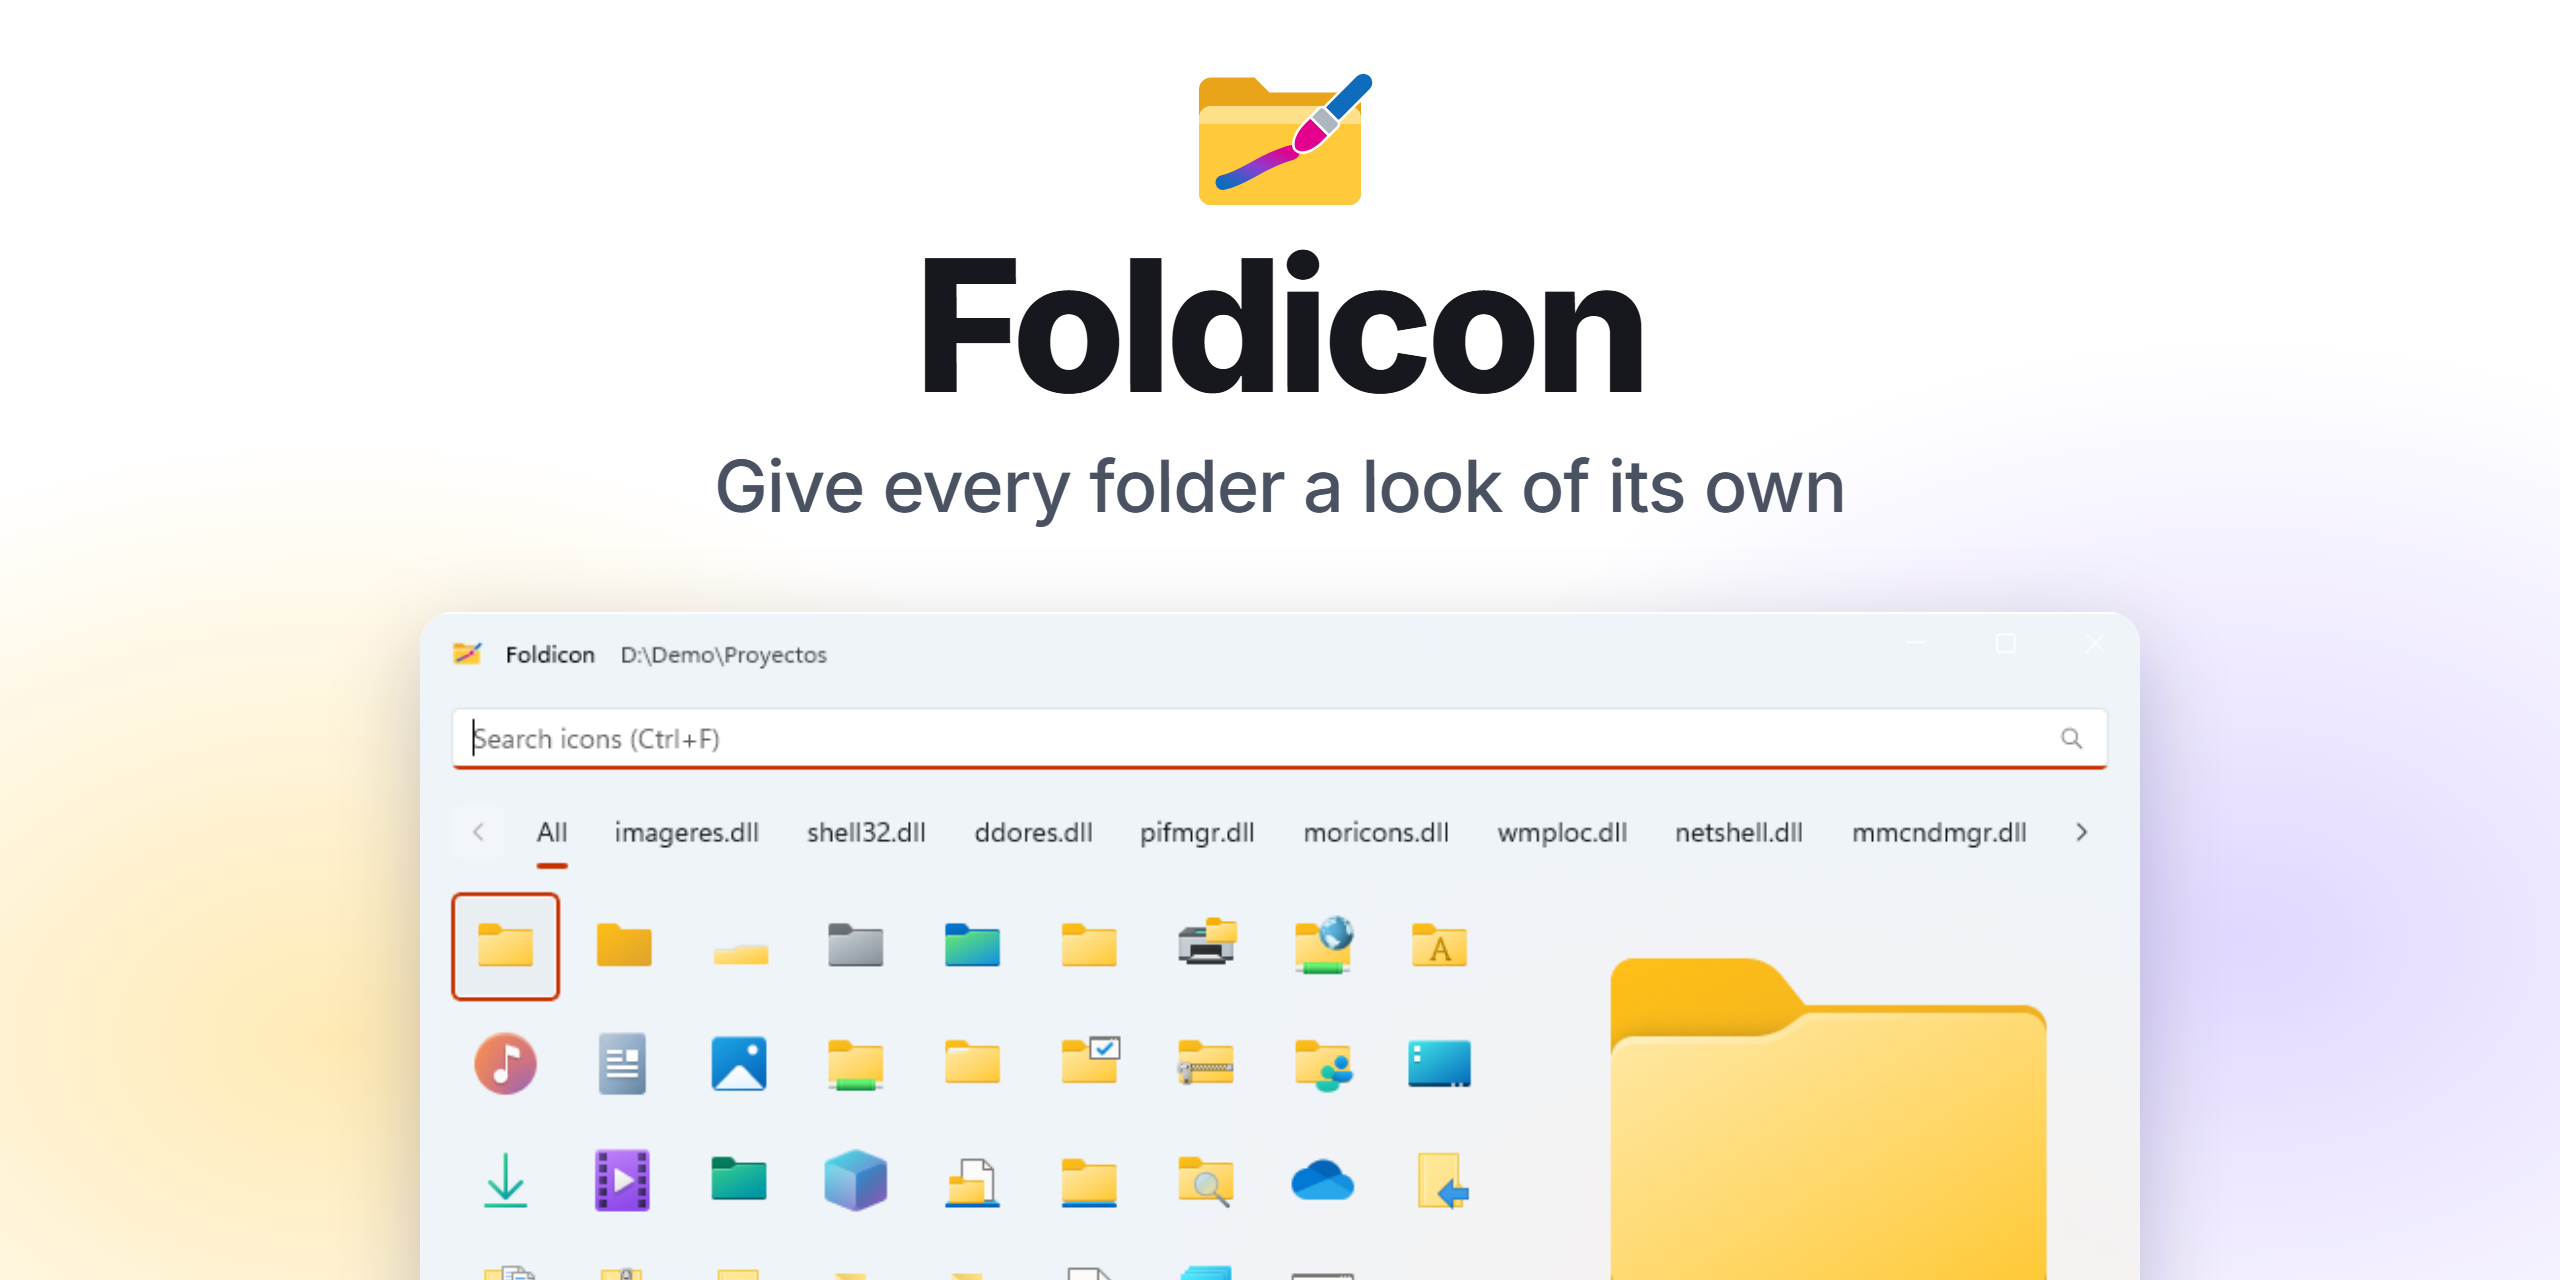
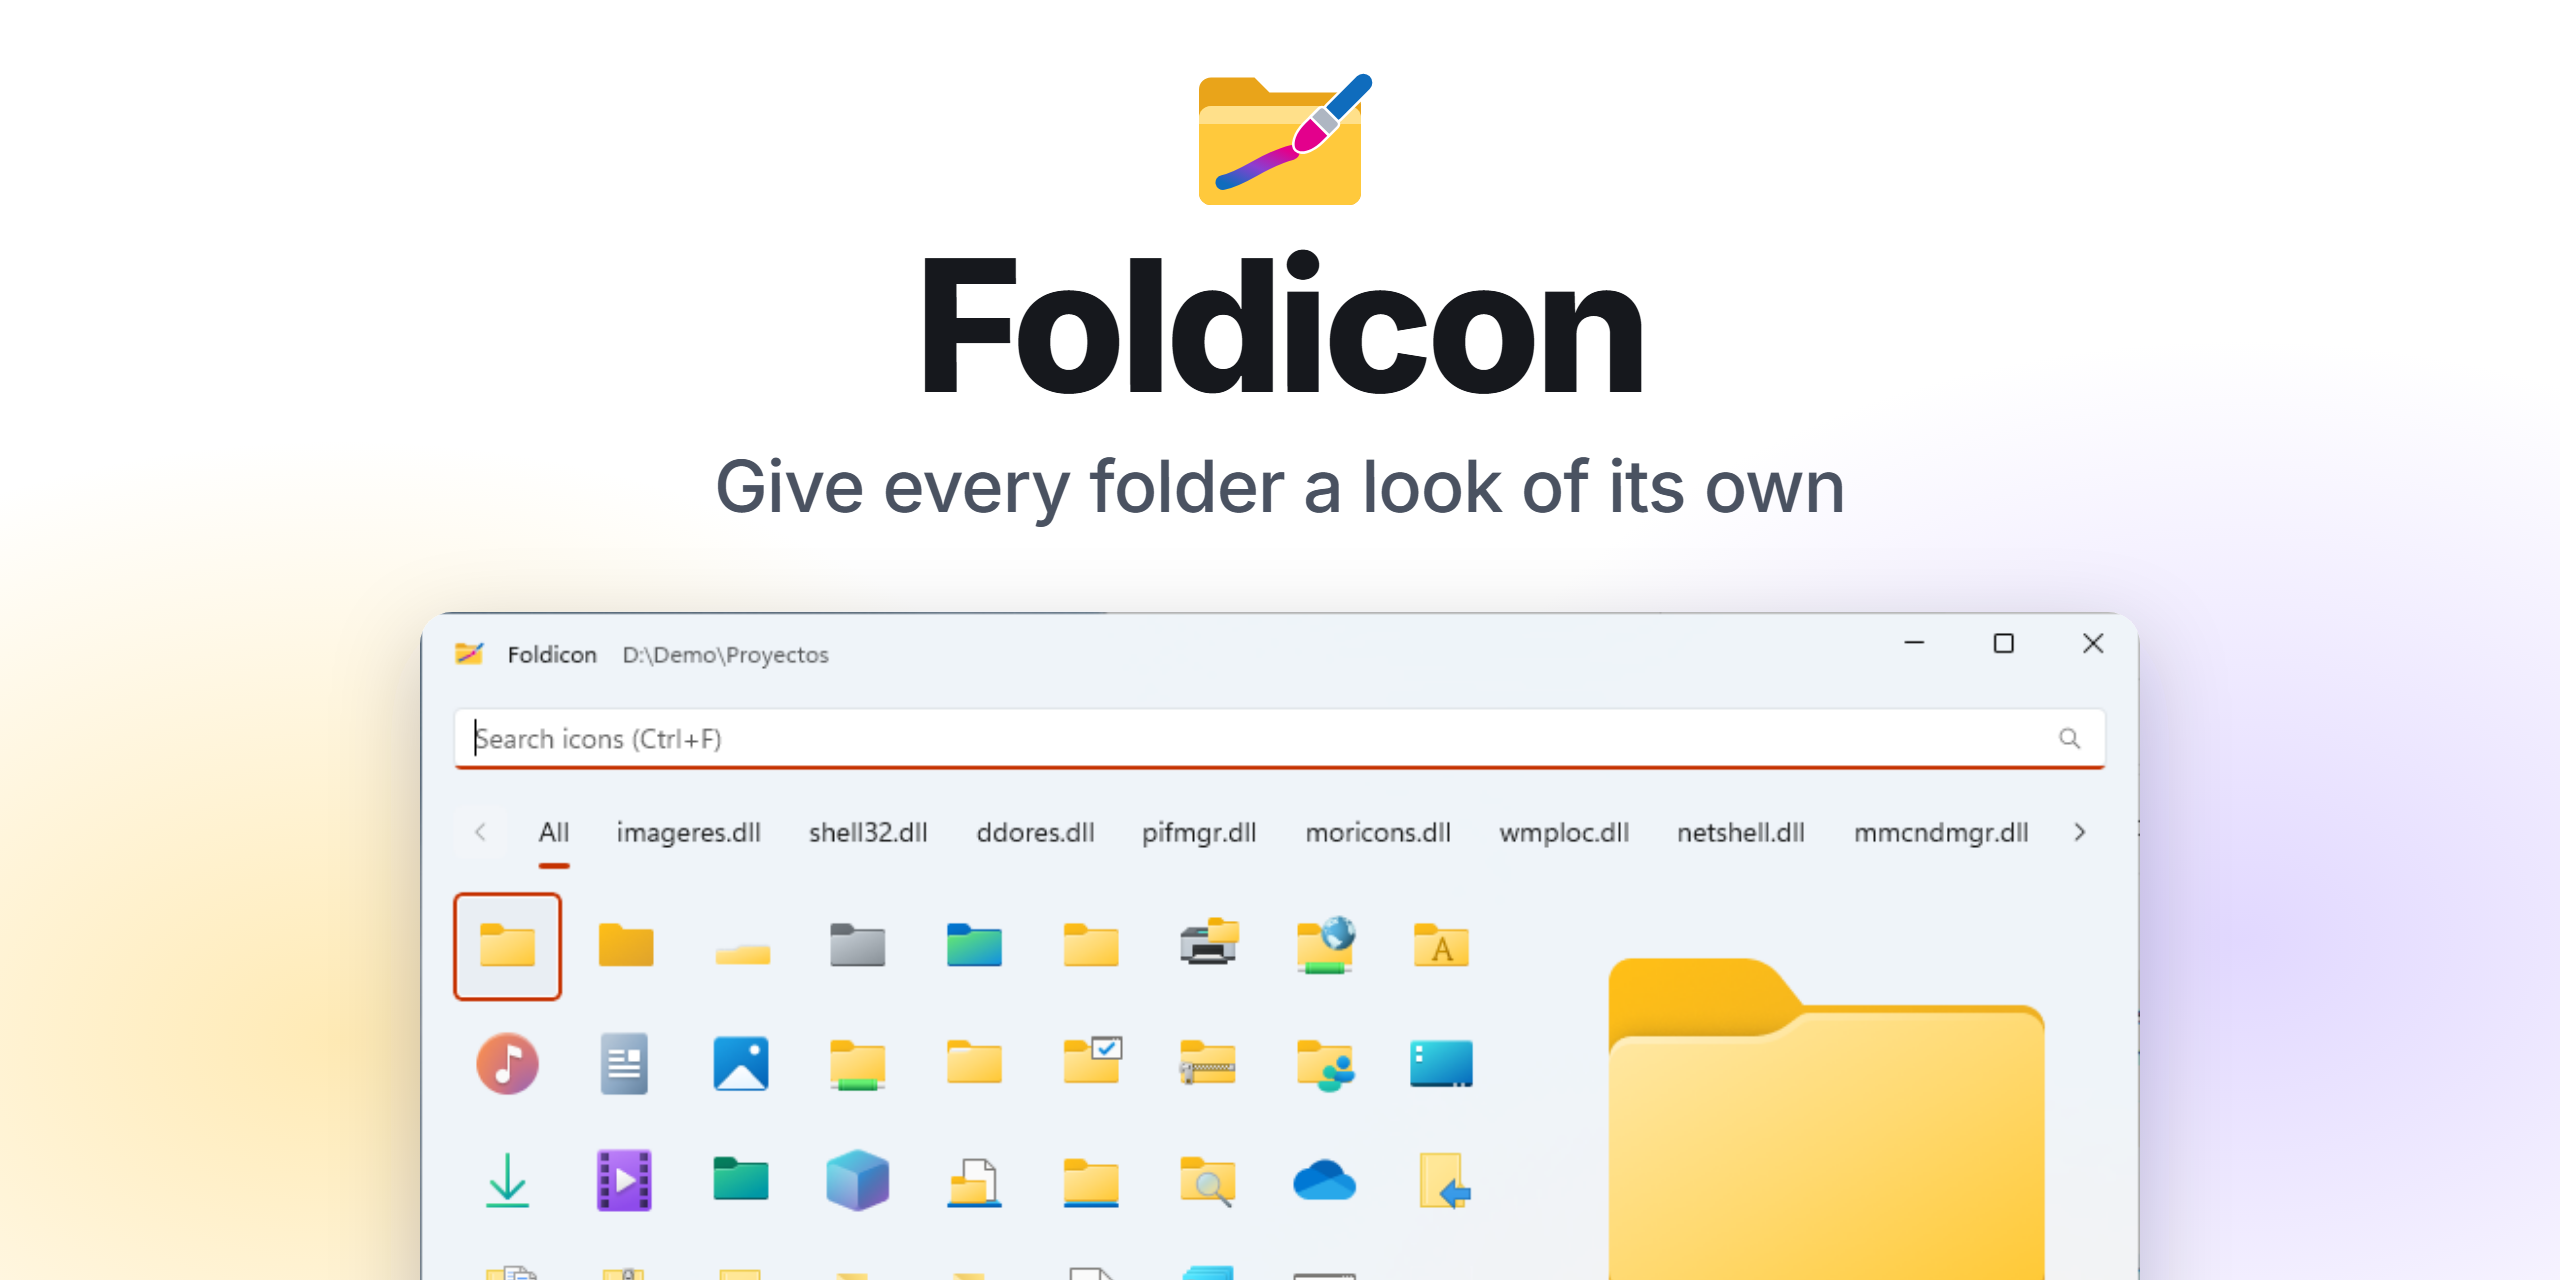
Add light screenshots to the README

diff --git a/README.md b/README.md
@@ -71,7 +71,11 @@
 </p>
 
 <p align="center">
-  <img src="docs/images/shot-menu-dark.png" alt="The modern context menu of a folder with the item that opens Foldicon" width="586">
+  <picture>
+    <source media="(prefers-color-scheme: dark)" srcset="docs/images/shot-menu-dark.png">
+    <source media="(prefers-color-scheme: light)" srcset="docs/images/shot-menu-light.png">
+    <img src="docs/images/shot-menu-light.png" alt="The modern context menu of a folder with the item that opens Foldicon" width="586">
+  </picture>
 </p>
 
 <h2 align="center">Find the right icon in seconds</h2>
@@ -106,7 +110,11 @@
 <h2 align="center">Folders you can tell apart</h2>
 
 <p align="center">
-  <img src="docs/images/shot-explorer.png" alt="An Explorer window with folders that have different icons: backups, documents, downloads, favorites, games, music, photos, videos and work" width="820">
+  <picture>
+    <source media="(prefers-color-scheme: dark)" srcset="docs/images/shot-explorer.png">
+    <source media="(prefers-color-scheme: light)" srcset="docs/images/shot-explorer-light.png">
+    <img src="docs/images/shot-explorer-light.png" alt="An Explorer window with folders that have different icons: backups, documents, downloads, favorites, games, music, photos, videos and work" width="820">
+  </picture>
 </p>
 
 ## What you get
